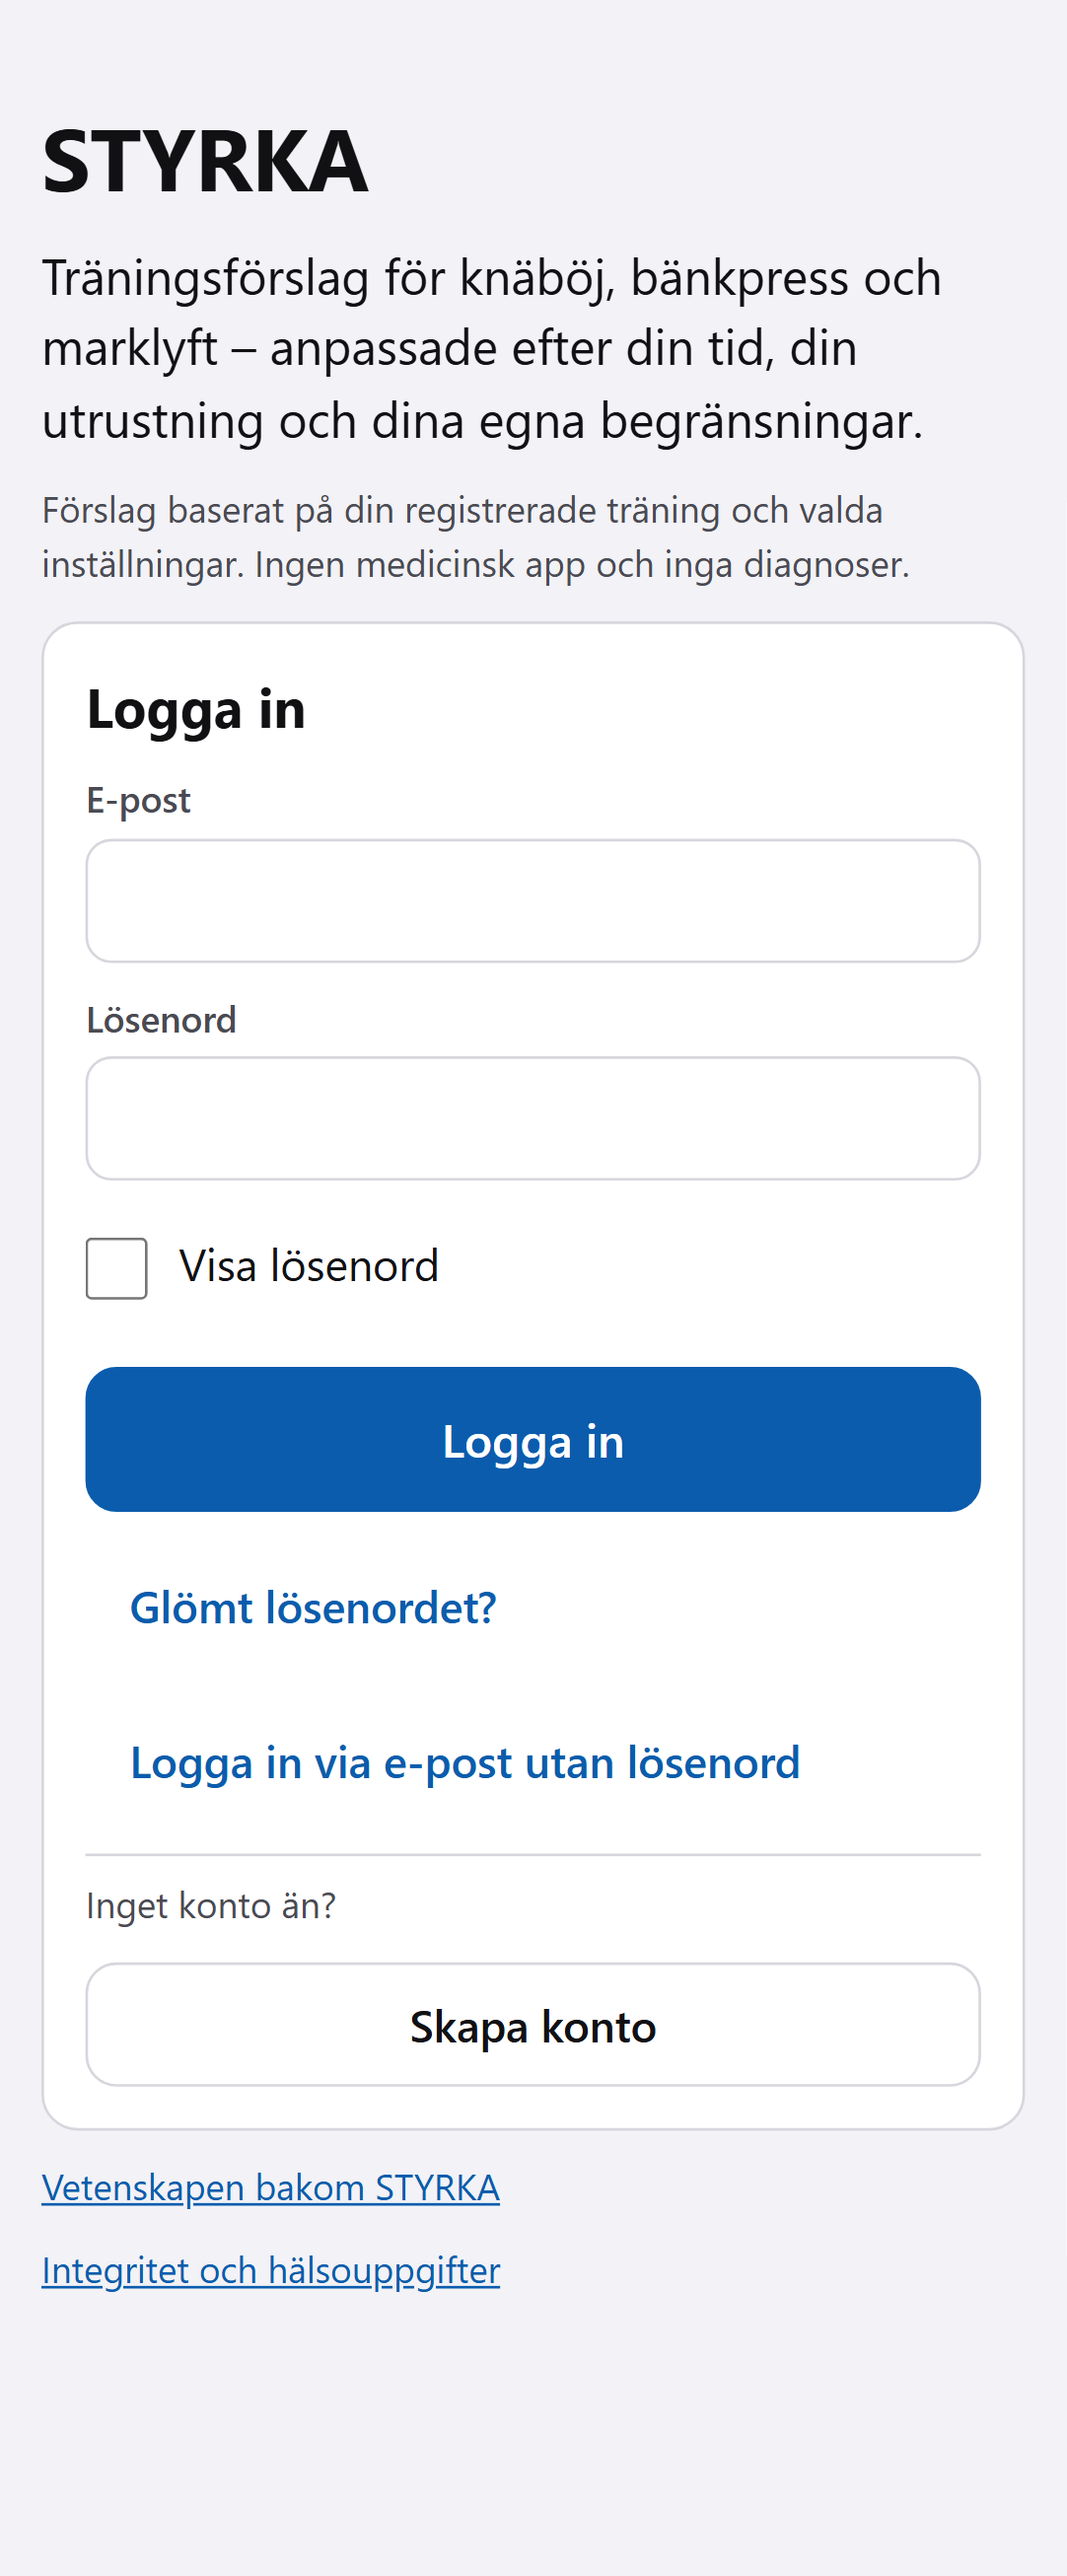
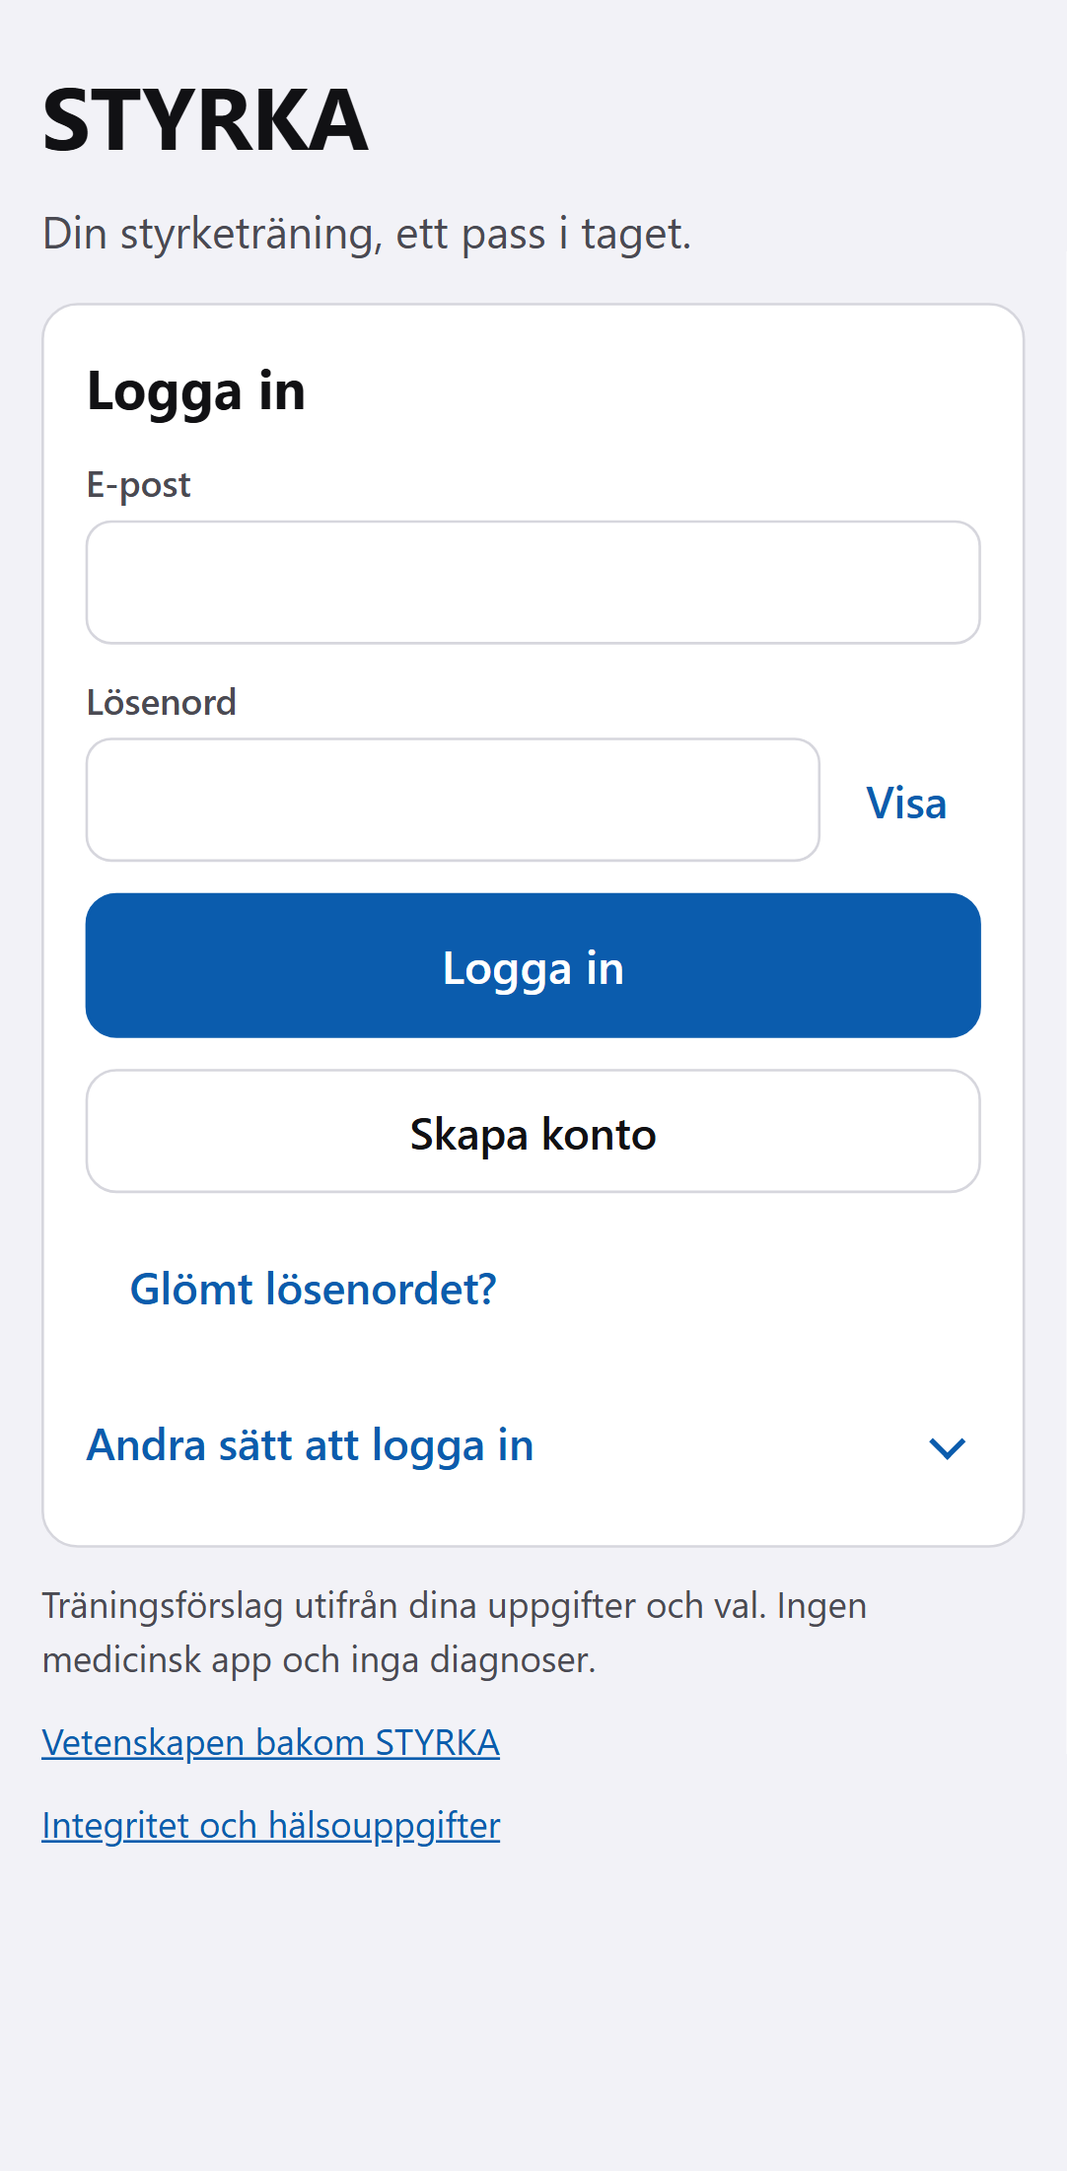
Staging: migration 005 och CR-komplettering publicerade, röktester gröna

Changed region(s): [[0.0305, 0.3397, 0.9455, 0.8955], [0.0305, 0.0309, 0.854, 0.3397], [0.8235, 0.0926, 0.8845, 0.1235]]

diff --git a/docs/RELEASEGRINDAR.md b/docs/RELEASEGRINDAR.md
@@ -8,7 +8,7 @@
 
 **STYRKA-CR-2026-10-10-01 (vetenskapssida + övningsbyte):** implementerad och testad lokalt (se TESTPROTOKOLL, SUB01–SUB24). Migration `20261011000004_substitution.sql` (additiv). Feature flag `VITE_FLAG_SUBSTITUTION_V2` (standard på efter godkända tester; `false` ⇒ tidigare bytesvy). Staging: migration 004 ska tillämpas **före** ny frontend (`npx supabase db push`, sedan `npm run deploy:staging`). **Staging 2026-10-11:** migration 004 tillämpad (`supabase db push`), därefter frontend publicerad (version `fd37860a`). Röktest API `npm run test:staging` **6/6** (inkl. nya tabeller: RLS, append-only revisionsposter, `perceived_effort` via RPC, katalog = appens 48 övningar). Webbläsarröktest **4/4** (Android/iPhone: inloggning–pass–synk samt `/vetenskap` utan konto, utan CSP-/konsolfel). Inga syntetiska testkonton kvar i staging.
 
-**CR-komplettering 2026-10-11 (produktägarens seed-fil och evidensregister):** substitutionskatalog och vetenskapssida följer nu filerna (se AVVIKELSER K-1–K-8). Migration `20261011000005_substitution_seed.sql` (additiv katalogdata) ska tillämpas före ny frontend. Status för staging: se nedan och rapporten till produktägaren.
+**CR-komplettering 2026-10-11 (produktägarens seed-fil och evidensregister):** substitutionskatalog och vetenskapssida följer nu filerna (se AVVIKELSER K-1–K-8). Migration `20261011000005_substitution_seed.sql` (additiv katalogdata) ska tillämpas före ny frontend. **Staging 2026-10-11:** migration 005 tillämpad före frontend (version `866d5394`, innehåller även rättningarna F1–F6). Röktest API **6/6**, webbläsare **4/4** (inloggning–pass–synk och publik `/vetenskap`); inga syntetiska testkonton kvar.
 
 | Grind | Status | Kommentar |
 |---|---|---|

diff --git a/docs/TESTPROTOKOLL.md b/docs/TESTPROTOKOLL.md
@@ -15,6 +15,7 @@ Ovanpå rättningarna (`495cf5f`): substitutionskatalogen härleds nu ur produkt
 | E2E | `playwright test` | **79 PASS, 2 SKIP** (samma två WebKit-undantag som tidigare), 5,9 min |
 | Källänkar | `node scripts/check-evidence-links.mjs` | **13/13** registerkällor svarar; alla DOI registrerade (Taylor & Francis svarar 403 på automatiska anrop men DOI är giltiga) |
 | Lint / typecheck | | 0 fel |
+| Staging efter migration 005 | `npm run test:staging`, `playwright -c playwright.staging.config.ts` | **6/6** och **4/4** (version `866d5394`) |
 
 Nya och ändrade kontroller i kompletteringen:
 
